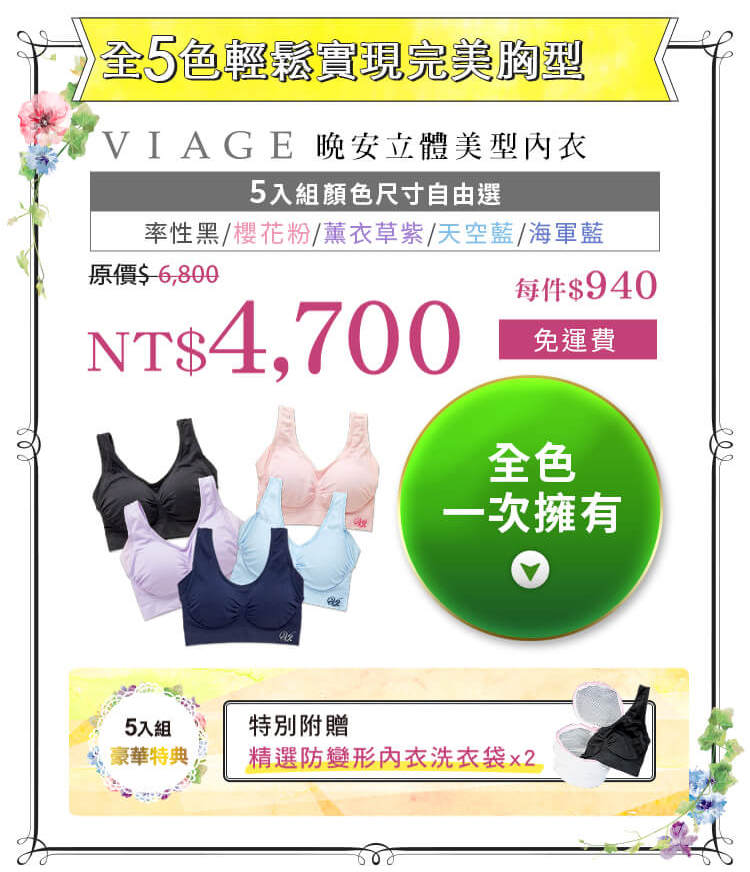
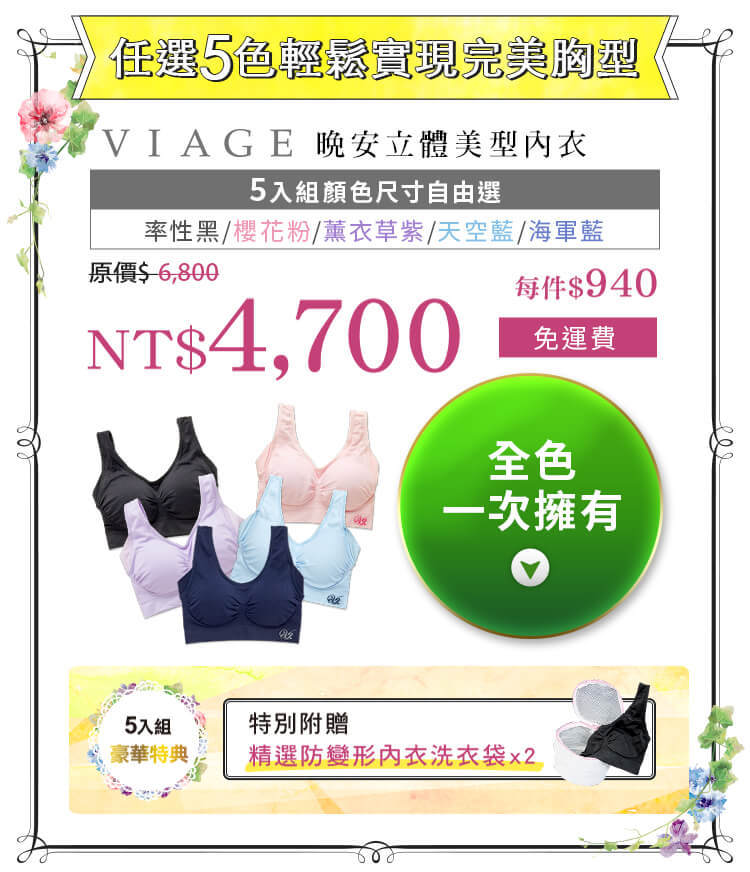
20200618_add carousel photo & edite set5 text

diff --git a/index.html b/index.html
@@ -469,6 +469,12 @@
                                 <div class="carousel-item">
                                     <img class="d-block w-100 " src="images/14_color_05.jpg" alt="Fifth slide">
                                 </div>
+                                <div class="carousel-item">
+                                    <img class="d-block w-100 " src="images/14_color_06.jpg" alt="Fourth slide">
+                                </div>
+                                <div class="carousel-item">
+                                    <img class="d-block w-100 " src="images/14_color_07.jpg" alt="Fifth slide">
+                                </div>
                             </div>
                             <a class="carousel-control-prev" href="#color_carousel_1" role="button" data-slide="prev">
                                 <span class="carousel-control-prev-icon" aria-hidden="true"></span>
@@ -506,6 +512,12 @@
                                 </div>
                                 <div class="carousel-item">
                                     <img class="d-block w-100 " src="images/SMP/14_color_05_SMP.jpg" alt="Fifth slide">
+                                </div>
+                                <div class="carousel-item">
+                                    <img class="d-block w-100 " src="images/SMP/14_color_06_SMP.jpg" alt="Fourth slide">
+                                </div>
+                                <div class="carousel-item">
+                                    <img class="d-block w-100 " src="images/SMP/14_color_07_SMP.jpg" alt="Fifth slide">
                                 </div>
                             </div>
                             <a class="carousel-control-prev" href="#color_carousel_2" role="button" data-slide="prev">
